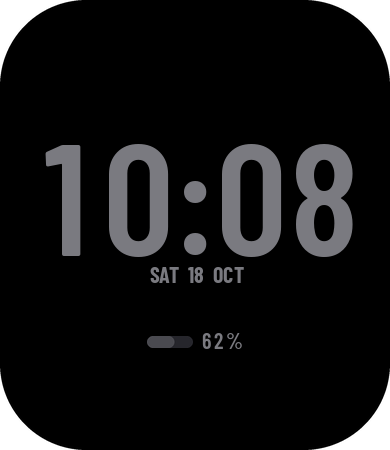
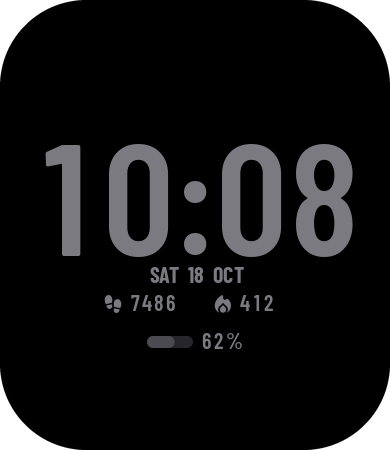
Swirl the activity rings on wake; steps and calories on always-on
Rings sweep from empty to their level each time the face appears,
staggered outer to inner with an ease-out. The always-on screen adds
dim steps and calories under the date. Preview stub runs timers to
completion on a fake clock.

Changed region(s): [[0.5538, 0.6533, 0.7077, 0.7156], [0.3385, 0.6533, 0.4615, 0.7156], [0.2462, 0.6533, 0.3077, 0.7156]]

diff --git a/watchface/index.js b/watchface/index.js
@@ -40,6 +40,7 @@ const RIGHT_X = 244
 const RIGHT_W = 118
 const BATTERY_CY = 78 // middle of the rings
 const DIVIDERS = [136, 324, 372]
+const AOD_STATS_CY = 304 // always-on steps/calories row
 const TIME_Y = 141 // digit images carry 3 px of padding above the glyphs
 
 const digits = (set) => Array.from({ length: 10 }, (_, i) => `font/${set}/${i}.png`)
@@ -276,9 +277,9 @@ WatchFace({
 
   // ---- top left: activity rings + stats ----
   buildActivity() {
-    this.setStepRing = ring(64, 78, 45, 0x2ee6ff)
-    this.setCalRing = ring(64, 78, 34, 0xff5a36)
-    this.setStandRing = ring(64, 78, 23, 0xb6f23a)
+    // Outer to inner: steps, calories, stand
+    this.rings = [ring(64, 78, 45, 0x2ee6ff), ring(64, 78, 34, 0xff5a36), ring(64, 78, 23, 0xb6f23a)]
+    this.ringLevels = [0, 0, 0]
 
     const valY = (i) => STAT_ROW_Y(i) + Math.round((22 - M.stat.h) / 2)
     ;['steps', 'cal', 'stand', 'dist'].forEach((name, i) => img(STAT_X, STAT_ROW_Y(i) + 1, `icon/${name}.png`))
@@ -454,6 +455,23 @@ WatchFace({
     bigTime('aod', AOD)
     dateGroup({ week: 'aod_week', day: 'aod_day', month: 'aod_month' }, M.dateRow, AOD)
 
+    // Steps and calories, dim, centred under the date
+    const st = M.aod_stat
+    const stepsW = 20 + 6 + 5 * st.digit_w
+    const calW = 20 + 6 + 4 * st.digit_w
+    const sx = Math.round((390 - (stepsW + 24 + calW)) / 2)
+    const sy = AOD_STATS_CY - Math.round(st.h / 2)
+    img(sx, AOD_STATS_CY - 10, 'icon/aod_steps.png', AOD)
+    create(hmUI.widget.TEXT_IMG, {
+      x: sx + 26, y: sy, w: 5 * st.digit_w, h: st.h, font_array: digits('aod_stat'), h_space: 0,
+      align_h: hmUI.align.LEFT, type: hmUI.data_type.STEP, show_level: AOD
+    })
+    img(sx + stepsW + 24, AOD_STATS_CY - 10, 'icon/aod_cal.png', AOD)
+    create(hmUI.widget.TEXT_IMG, {
+      x: sx + stepsW + 24 + 26, y: sy, w: 4 * st.digit_w, h: st.h, font_array: digits('aod_stat'), h_space: 0,
+      align_h: hmUI.align.LEFT, type: hmUI.data_type.CAL, show_level: AOD
+    })
+
     const battW = 46 + 8 + 2 * M.aod_batt.digit_w + M.aod_batt.pct
     const bx = Math.round((390 - battW) / 2)
     this.aodBatteryBar = img(bx, 336, barSrc('aod_battery', 0), AOD)
@@ -518,6 +536,7 @@ WatchFace({
     this.safely('sleep', () => this.sleep.updateInfo())
     this.readSunTimes()
     this.safely('rings', () => this.refreshActivity())
+    this.safely('swirl', () => this.swirlRings())
     this.safely('batt', () => this.refreshBattery())
     this.safely('stress', () => this.refreshStress())
     this.safely('health', () => this.refreshHealth())
@@ -527,11 +546,15 @@ WatchFace({
   },
 
   refreshActivity() {
-    this.setStepRing(pctOf(this.step.getCurrent(), this.step.getTarget()))
-    this.setCalRing(pctOf(this.calorie.getCurrent(), this.calorie.getTarget()))
     const standNow = this.stand.getCurrent()
     const standGoal = this.stand.getTarget()
-    this.setStandRing(pctOf(standNow, standGoal))
+    this.ringLevels = [
+      pctOf(this.step.getCurrent(), this.step.getTarget()),
+      pctOf(this.calorie.getCurrent(), this.calorie.getTarget()),
+      pctOf(standNow, standGoal)
+    ]
+    // While the swirl runs it owns the rings; it ends on these levels
+    if (!this.swirlTimer) this.rings.forEach((set, i) => set(this.ringLevels[i]))
     this.standText.setProperty(hmUI.prop.TEXT, `${standNow}.${standGoal}`)
   },
 
@@ -603,6 +626,31 @@ WatchFace({
     this.weekday.setProperty(hmUI.prop.SRC, `date/week_${phase}_${this.time.getDay() - 1}.png`)
   },
 
+  // Rings sweep from empty to their level each time the face appears:
+  // outer ring first, each one 120 ms after the last, easing out over 600 ms.
+  swirlRings() {
+    if (this.swirlTimer) clearInterval(this.swirlTimer)
+    const FRAME = 40
+    const DURATION = 600
+    const STAGGER = 120
+    const start = Date.now()
+    const easeOut = (t) => 1 - Math.pow(1 - t, 3)
+    this.rings.forEach((set) => set(0))
+    this.swirlTimer = setInterval(() => {
+      const elapsed = Date.now() - start
+      let done = true
+      this.rings.forEach((set, i) => {
+        const t = clamp((elapsed - i * STAGGER) / DURATION, 0, 1)
+        if (t < 1) done = false
+        set(this.ringLevels[i] * easeOut(t))
+      })
+      if (done) {
+        clearInterval(this.swirlTimer)
+        this.swirlTimer = null
+      }
+    }, FRAME)
+  },
+
   // ~3 s of "lub-dub" at the current heart rate
   heartbeat() {
     if (!this.heartAnim || !hmUI.anim_status) return
@@ -625,6 +673,7 @@ WatchFace({
   },
 
   onDestroy() {
+    if (this.swirlTimer) clearInterval(this.swirlTimer)
     // Only the sensors this mode created exist (the always-on scene has just battery)
     const off = (sensor, fn, method = 'offChange') => sensor && fn && sensor[method](fn)
     this.safely('destroy', () => {

diff --git a/watchface/metrics.js b/watchface/metrics.js
@@ -156,6 +156,12 @@ export const M = {
     "avg_w": 12.0,
     "pct": 18
   },
+  "aod_stat": {
+    "h": 23,
+    "digit_w": 12,
+    "cap": 16,
+    "avg_w": 12.0
+  },
   "heartbeat": {
     "frames": 6,
     "pad": 3

diff --git a/tools/gen_assets.py b/tools/gen_assets.py
@@ -355,6 +355,9 @@ def main():
     word_set('aod_month', MONTHS, 22, AOD_GRAY, top=date_top)
     day_set('aod_day', 22, AOD_GRAY, top=date_top)
     font_set('aod_batt', 22, AOD_GRAY, ('pct',))
+    font_set('aod_stat', 22, AOD_GRAY)
+    icon('aod_steps', 'footprint', 20, AOD_GRAY)
+    icon('aod_cal', 'local_fire_department', 20, AOD_GRAY)
 
     # Icons: 20 px beside secondary text, 24 px beside primary values
     icon('steps', 'footprint', 20, STEPS)
